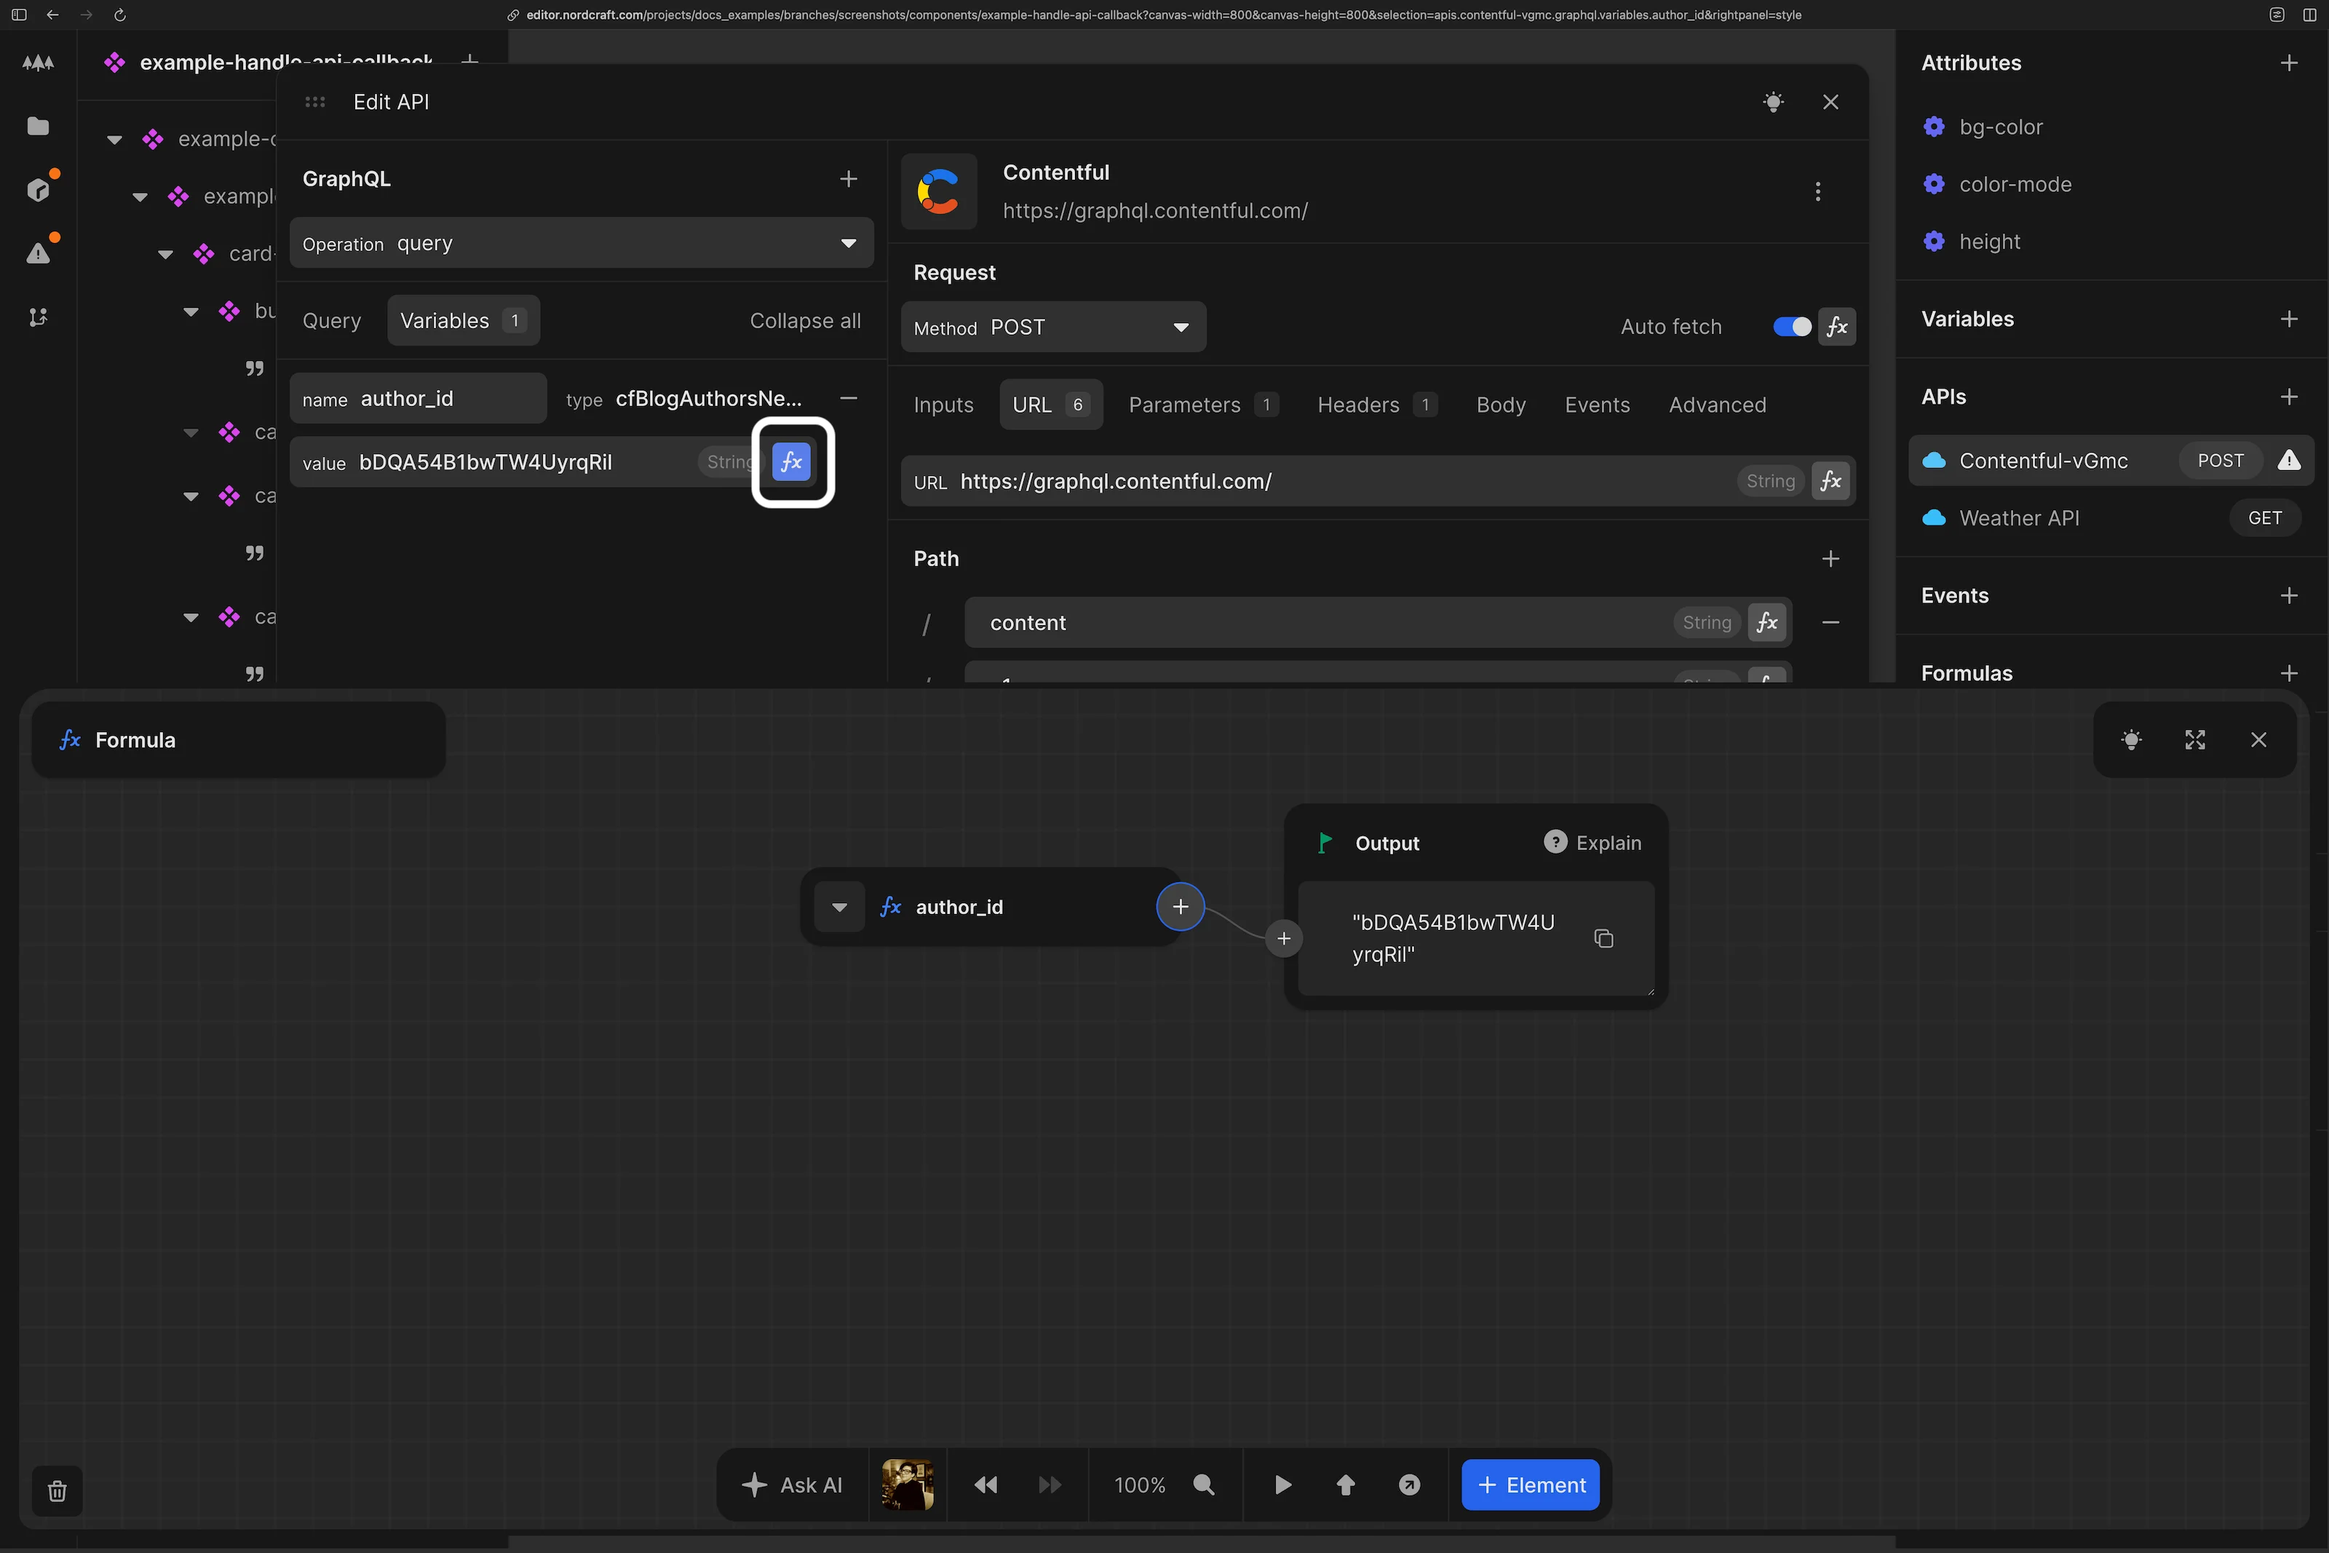
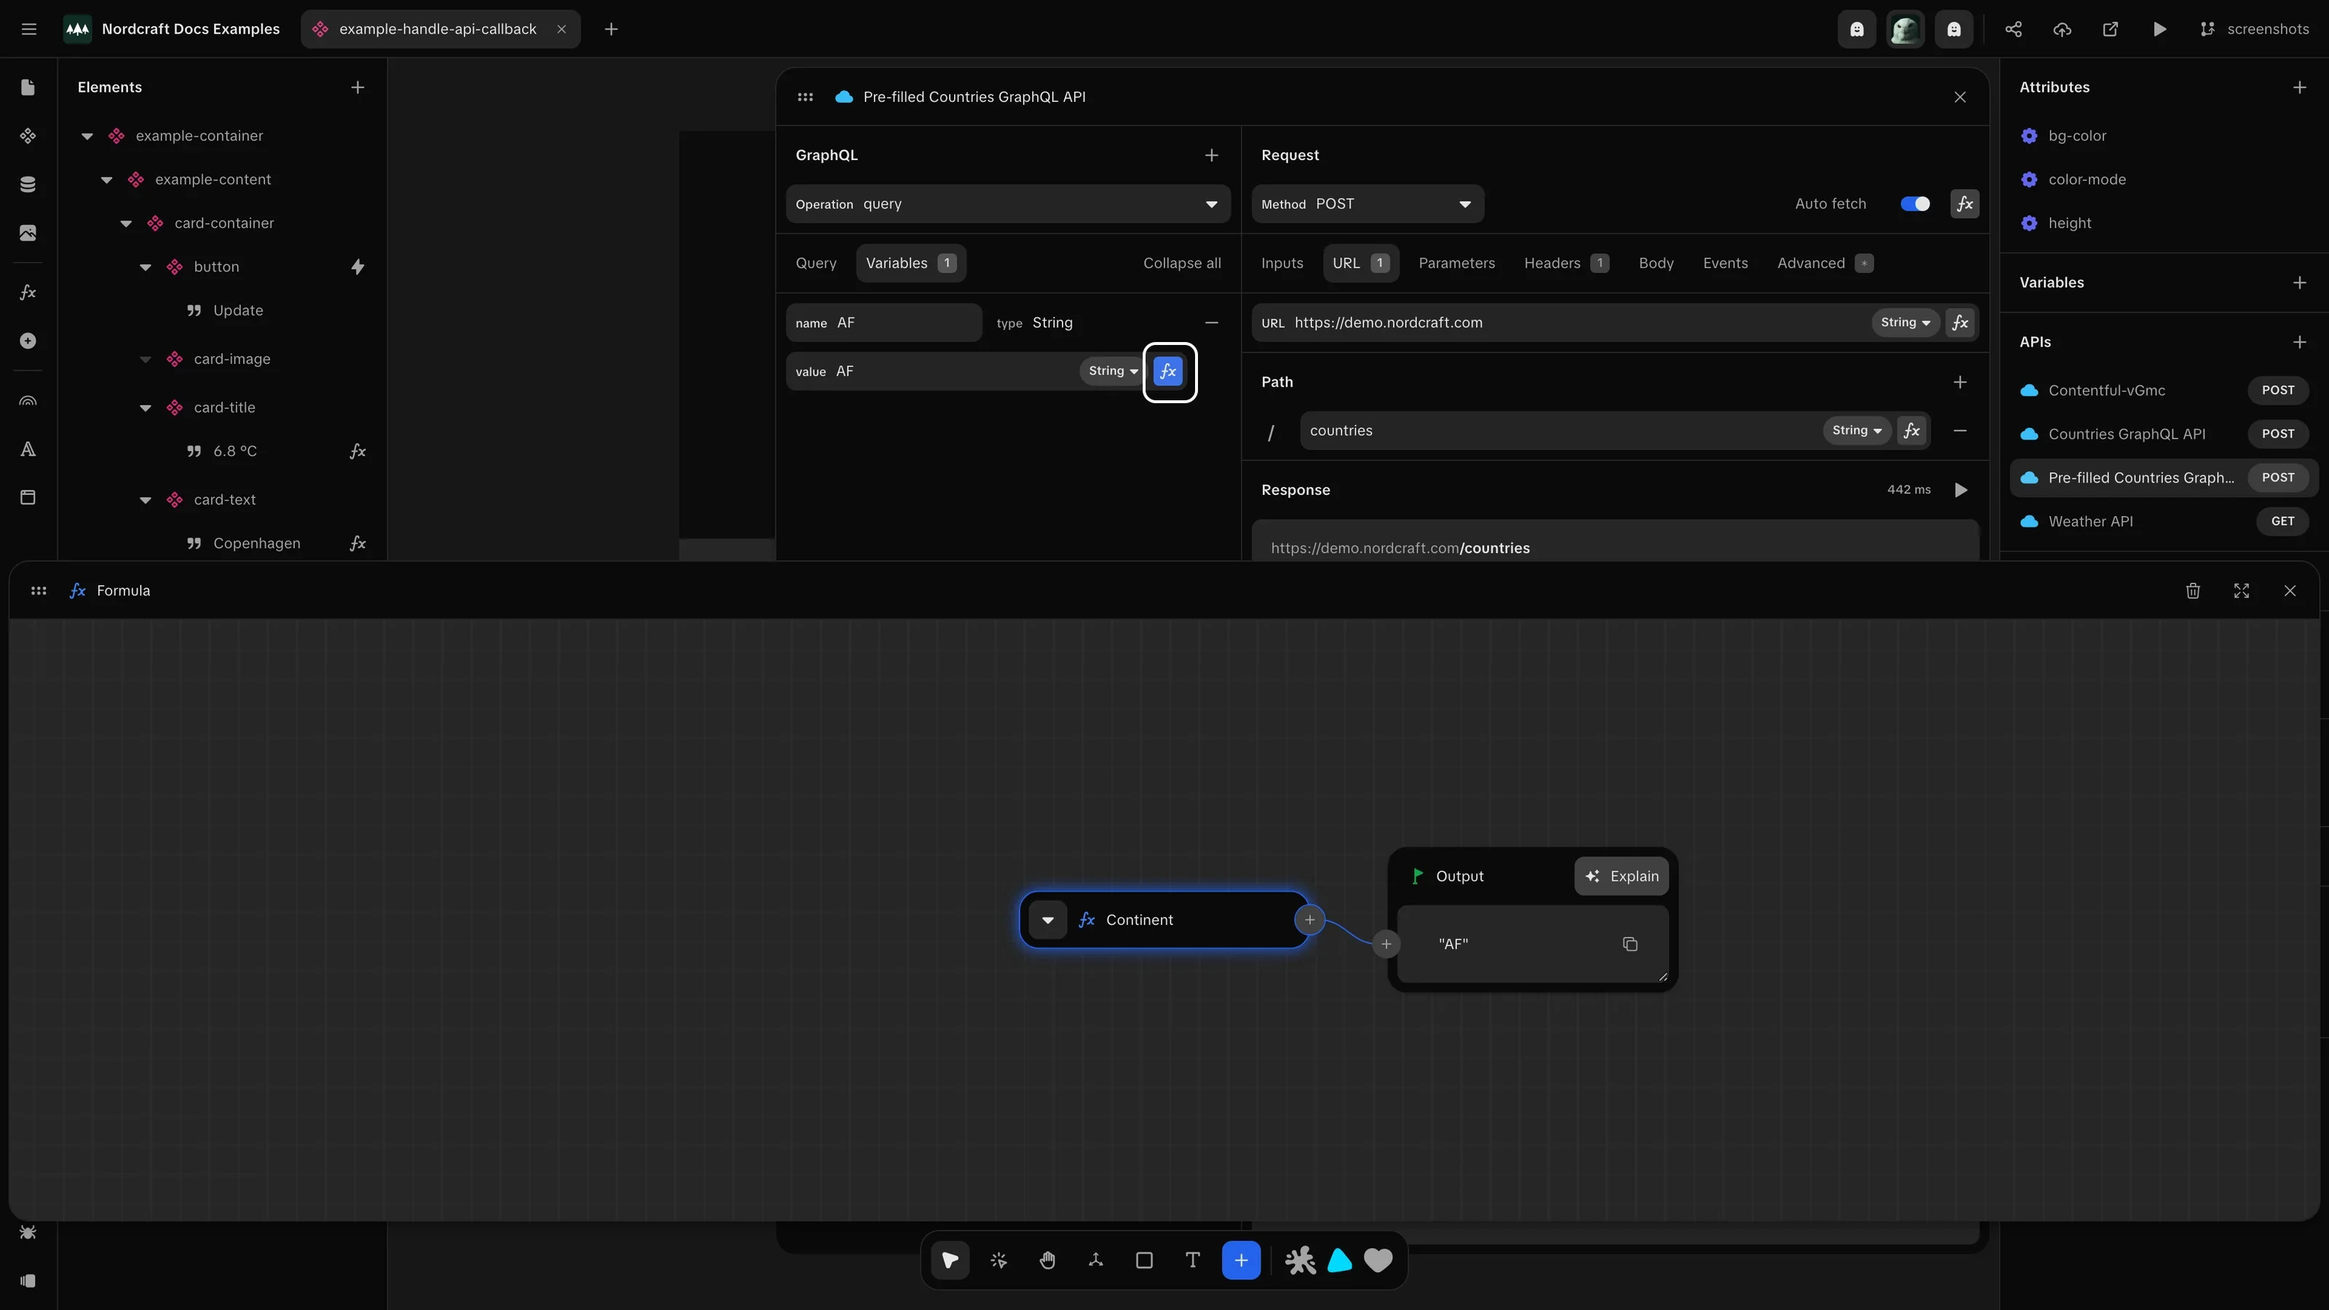
variable formula editor

diff --git a/docs/connecting-data/working-with-apis/graphql-variable-formula-editor.screenshot.ts b/docs/connecting-data/working-with-apis/graphql-variable-formula-editor.screenshot.ts
@@ -1,0 +1,23 @@
+import { defineScreenshot } from '@/scripts/capture-screenshots'
+import type { Page } from 'playwright'
+
+// Placeholder script for graphql-variable-formula-editor.webp
+export default defineScreenshot({
+  path: '/projects/docs_examples/branches/screenshots/components/example-handle-api-callback?mode=design&canvas-tool=select&canvas-width=800&selection=apis.Pre-filled%2520Countries%2520GraphQL%2520API&rightpanel=style',
+  setup: async (page: Page) => {
+    await page.waitForTimeout(500)
+    await page.getByRole('tab', { name: 'Variables' }).click()
+    await page.getByRole('button', { name: 'Edit formula for value' }).click()
+    await page.locator('#formula-editor').click()
+  },
+  annotations: [
+    {
+      type: 'box',
+      x: 393,
+      y: 118,
+      width: 18,
+      height: 20,
+      rx: 4
+    }
+  ],
+})

diff --git a/docs/connecting-data/working-with-apis/index.md b/docs/connecting-data/working-with-apis/index.md
@@ -150,7 +150,7 @@ Nordcraft provides a GraphQL explorer for you to build GraphQL queries for Graph
 
 After you've added your first field, you'll see the GraphQL explorer open on the left of the API dialog so you can further refine your query. Click the [kbd]+[kbd] buttons to add fields to your query, and click the checkmarks next to the fields to remove them from your query. Watch the API response update in real time when the [auto fetch](/connecting-data/call-an-api#using-auto-fetch) toggle is on.
 
-![The GraphQL explorer is showing a query constructed on the blogPostCollection entity, with the fields category, date and slug selected under items. The API response panel on the right is showing the data fetched by the query.|16/9](graphql-built-query.webp 'Add a field to a GraphQL query')
+![The GraphQL explorer is showing a query constructed on the continents and countries entities, with the fields code and name for continents, and capital, currency, and name for countries, selected under items. The API response panel on the right is showing the data fetched by the query.|16/9](graphql-built-query.webp 'Add a field to a GraphQL query')
 
 ### Add a GraphQL query variable
 
